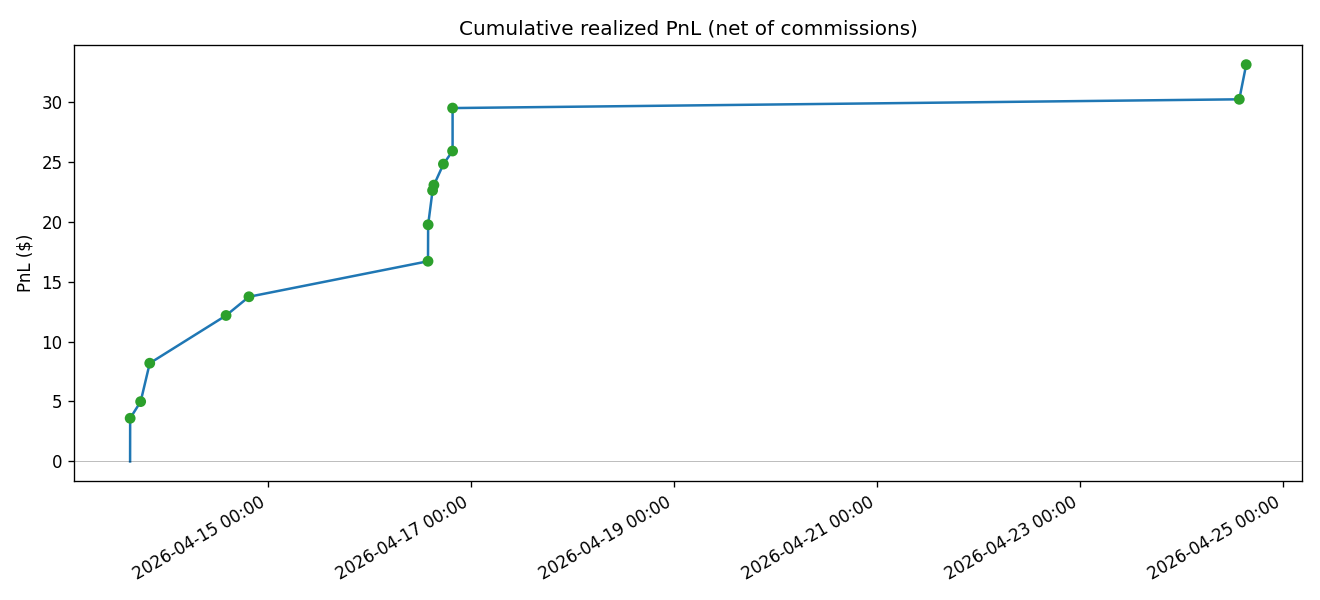
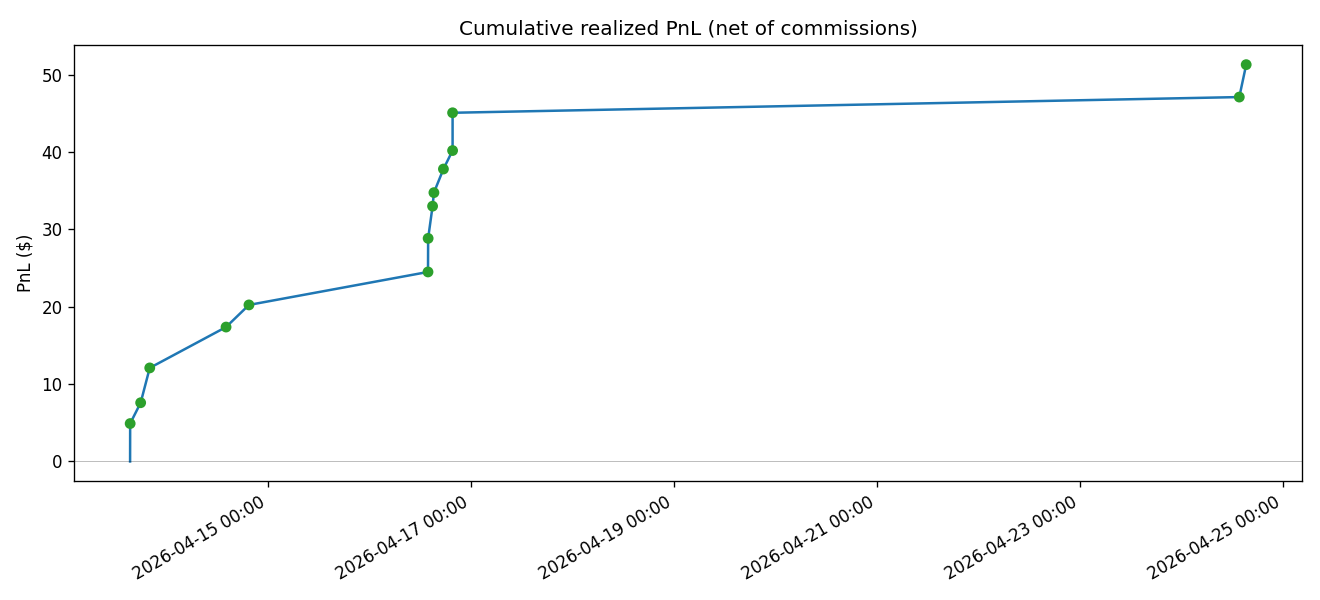
feat(costs): IBKR Pro Tiered defaults + commission_min_per_order knob
Adds a per-order commission floor to the cost model so the engine
can accurately model IBKR Pro Tiered ($0.0035/share, $0.35 min)
vs Fixed ($0.005/share, $1.00 min). Without the floor, small-share
orders looked cheaper than they actually are.

AppConfig:
 - New double commission_min_per_order = 1.0 (Fixed default preserves
   prior behaviour for any config that doesn't set it).
 - INI key: commission_min_per_order.

InstitutionalTransactionCostModel:
 - New 4-arg constructor (commission, commissionMin, spread, impact).
 - estimateCost now applies max(per_share * qty, min) per leg.
 - 3-arg constructor preserved (sets min=0, so old call sites are
   numerically identical).

Configs:
 - Both example configs default to Tiered (0.0035 / 0.35).
 - Hetzner config.ini updated to match.

Tests:
 - Three new TestCoreModels cases covering Tiered-floor-dominates,
   per-share-dominates, and 3-arg-no-floor regression.

plot_run.py:
 - Defaults now match the C++ defaults (0.0035 / 0.35).
 - Reads commission_min_per_order with fallback to legacy min_per_order.

Run #3 re-scored:
 - Realized PnL net: $33.08 -> $51.28 (same 14 trades, less
   commission drag).
 - Sharpe annualised: 18.26 -> 28.30.
 - Avg win: $2.36 -> $3.66.

diff --git a/include/execution/InstitutionalTransactionCostModel.h b/include/execution/InstitutionalTransactionCostModel.h
@@ -1,4 +1,5 @@
 #pragma once
+#include <algorithm>
 #include <cmath>
 #include "execution/ITransactionCostModel.h"
 
@@ -6,13 +7,26 @@ namespace hft {
 
 class InstitutionalTransactionCostModel : public ITransactionCostModel {
   double commissionPerShare_;
+  double commissionMinPerOrder_;
   double halfSpread_;
   double impactCoefficient_;
 
  public:
+  // 3-arg constructor preserved for back-compat with existing callers
+  // (defaults commissionMinPerOrder_ to 0, i.e. pure per-share with no floor).
   InstitutionalTransactionCostModel(double commission, double spread,
                                     double impact)
       : commissionPerShare_(commission),
+        commissionMinPerOrder_(0.0),
+        halfSpread_(spread),
+        impactCoefficient_(impact) {}
+
+  // 4-arg constructor: commission per-share + per-order floor in dollars.
+  // IBKR Pro Fixed: (0.005, 1.00). IBKR Pro Tiered: (0.0035, 0.35).
+  InstitutionalTransactionCostModel(double commission, double commissionMin,
+                                    double spread, double impact)
+      : commissionPerShare_(commission),
+        commissionMinPerOrder_(commissionMin),
         halfSpread_(spread),
         impactCoefficient_(impact) {}
 
@@ -23,7 +37,14 @@ class InstitutionalTransactionCostModel : public ITransactionCostModel {
     if (tradeSize == 0.0)
       return 0.0;
 
-    const double commissionCost = tradeSize * commissionPerShare_;
+    // Per-leg commission: max(per_share * qty, min_per_order). Floor is
+    // skipped when min == 0 to preserve the 3-arg-constructor behaviour
+    // (legacy callers that don't model the per-order minimum get exactly
+    // the same numbers as before).
+    double commissionCost = tradeSize * commissionPerShare_;
+    if (commissionMinPerOrder_ > 0.0) {
+      commissionCost = std::max(commissionCost, commissionMinPerOrder_);
+    }
     const double spreadCost = tradeSize * price * halfSpread_;
     const double participationRate = tradeSize / dailyVolume;
     const double impactCost = impactCoefficient_ * price * tradeSize *

diff --git a/tests/unit/TestCoreModels.cpp b/tests/unit/TestCoreModels.cpp
@@ -25,6 +25,39 @@ HFT_TEST(test_transaction_cost_nonnegative) {
   hft::test::require(c >= 0.0, "cost must be non-negative");
 }
 
+HFT_TEST(test_transaction_cost_min_per_order_floor_applied_for_small_qty) {
+  // IBKR Pro Tiered: $0.0035/share, $0.35 min per order.
+  // For 10 shares: per-share = 10 * 0.0035 = $0.035; min kicks in at $0.35.
+  InstitutionalTransactionCostModel m(0.0035, 0.35, 0.0, 0.0);
+  const double c = m.estimateCost(0, 10, 50.0, 1'000'000);
+  hft::test::require(c >= 0.35 - 1e-9,
+                     "Tiered floor should dominate for small qty");
+  hft::test::require(c <= 0.35 + 1e-9,
+                     "Tiered floor should equal exactly the min when "
+                     "per-share is well below it");
+}
+
+HFT_TEST(test_transaction_cost_per_share_dominates_for_large_qty) {
+  // 200 shares: per-share = 200 * 0.0035 = $0.70 > $0.35 floor.
+  InstitutionalTransactionCostModel m(0.0035, 0.35, 0.0, 0.0);
+  const double c = m.estimateCost(0, 200, 50.0, 1'000'000);
+  hft::test::require(c >= 0.70 - 1e-9,
+                     "Per-share should dominate when qty exceeds the floor");
+  hft::test::require(c <= 0.70 + 1e-9,
+                     "Per-share should equal exactly tradeSize*rate when "
+                     "above the floor");
+}
+
+HFT_TEST(test_transaction_cost_3arg_constructor_unchanged_no_floor) {
+  // Legacy 3-arg constructor: no per-order floor (commissionMin = 0).
+  // For 10 shares at $0.005/share = $0.05 (would have been $1.00 floored
+  // if floor was applied). Asserts back-compat.
+  InstitutionalTransactionCostModel m(0.005, 0.0, 0.0);
+  const double c = m.estimateCost(0, 10, 50.0, 1'000'000);
+  hft::test::require(c >= 0.05 - 1e-9 && c <= 0.05 + 1e-9,
+                     "3-arg constructor must NOT apply a min floor");
+}
+
 HFT_TEST(test_slippage_moves_price_for_buy) {
   MarketImpactSlippageModel m(0.0005, 0.1);
   const double px = m.adjustExecutionPrice(100.0, true, 0.01);

diff --git a/scripts/plot_run.py b/scripts/plot_run.py
@@ -534,8 +534,14 @@ def main(argv: List[str]) -> int:
     cfg = read_config(run_dir)
 
     target_profit_pct = float(cfg.get("target_profit_pct", 0.008))
-    commission_per_share = float(cfg.get("commission_per_share", 0.005))
-    min_per_order = float(cfg.get("min_per_order", 1.0))
+    # IBKR Pro Tiered defaults (matches the C++ AppConfig defaults from
+    # 2026-05-21). The config key the engine actually reads is
+    # `commission_min_per_order`; we accept the older `min_per_order` too
+    # as a fallback so any pre-existing manifests still load cleanly.
+    commission_per_share = float(cfg.get("commission_per_share", 0.0035))
+    min_per_order = float(
+        cfg.get("commission_min_per_order", cfg.get("min_per_order", 0.35))
+    )
     account_budget = float(cfg.get("account_budget", 1500.0))
 
     trips = derive_round_trips(orders, commission_per_share, min_per_order)

diff --git a/src/lib/LiveExecutionEngine.cpp b/src/lib/LiveExecutionEngine.cpp
@@ -540,9 +540,9 @@ double LiveExecutionEngine::estimate_round_trip_cost_per_share(
   if (qty <= 0.0)
     return 0.0;
 
-  InstitutionalTransactionCostModel costs(cfg_.app.commission_per_share,
-                                          cfg_.app.half_spread_cost,
-                                          cfg_.app.impact_coefficient);
+  InstitutionalTransactionCostModel costs(
+      cfg_.app.commission_per_share, cfg_.app.commission_min_per_order,
+      cfg_.app.half_spread_cost, cfg_.app.impact_coefficient);
   const double daily_volume = std::max(cfg_.app.assumed_daily_volume, qty);
   const double buy_cost =
       costs.estimateCost(0.0, qty, entry_price, daily_volume);

diff --git a/include/config/AppConfig.hpp b/include/config/AppConfig.hpp
@@ -155,6 +155,11 @@ struct AppConfig {
   double target_profit_pct = 0.008;
   double min_sell_execution_score = 0.0;
   double commission_per_share = 0.005;
+  // Per-order commission floor in dollars. IBKR Pro Fixed = $1.00; IBKR Pro
+  // Tiered = $0.35. Default 1.0 preserves prior Fixed behaviour for
+  // configs that don't explicitly set this. The cost model applies
+  // max(commission_per_share * qty, commission_min_per_order) per leg.
+  double commission_min_per_order = 1.0;
   double half_spread_cost = 0.0005;
   double impact_coefficient = 0.1;
   double assumed_daily_volume = 1'000'000.0;

diff --git a/src/lib/AppConfig.cpp b/src/lib/AppConfig.cpp
@@ -136,6 +136,8 @@ AppConfig AppConfig::load_from_file(const std::string& path) {
         cfg.min_sell_execution_score = std::stod(val);
       } else if (key == "commission_per_share") {
         cfg.commission_per_share = std::stod(val);
+      } else if (key == "commission_min_per_order") {
+        cfg.commission_min_per_order = std::stod(val);
       } else if (key == "half_spread_cost") {
         cfg.half_spread_cost = std::stod(val);
       } else if (key == "impact_coefficient") {

diff --git a/reports/runs/2026-05-21T0344_cpp_backtest_10day_xwire_fix/metrics.md b/reports/runs/2026-05-21T0344_cpp_backtest_10day_xwire_fix/metrics.md
@@ -9,16 +9,16 @@
 |---|---|
 | n_round_trips_closed | 14 |
 | n_positions_open_at_end | 2 |
-| realized_pnl_net | 33.08 |
+| realized_pnl_net | 51.28 |
 | unrealized_pnl_mark_to_market | 0.0 |
 | win_rate | 1.0 |
-| avg_win | 2.3629 |
+| avg_win | 3.6629 |
 | avg_loss | 0.0 |
-| gross_profit | 33.08 |
+| gross_profit | 51.28 |
 | gross_loss | 0.0 |
 | profit_factor | None |
 | max_drawdown_dollars | 0.0 |
-| sharpe_ratio_annualized | 18.2582 |
+| sharpe_ratio_annualized | 28.3035 |
 | sortino_ratio_annualized | 0.0 |
 | calmar_ratio | 0.0 |
 | avg_holding_minutes | 1310.79 |
@@ -27,20 +27,20 @@
 
 | # | Symbol | Entry | Exit | Qty | Net PnL ($) | Held (market min) |
 |---|---|---|---|---|---|---|
-| 1 | HPE | 24.5000 | 24.7800 | 20 | +3.6000 | 109.0 |
-| 2 | WDC | 346.1100 | 349.5000 | 1 | +1.3900 | 137.0 |
-| 3 | HPE | 24.4900 | 24.7500 | 20 | +3.2000 | 87.0 |
-| 4 | HPQ | 18.6600 | 18.8900 | 26 | +3.9800 | 28.0 |
-| 5 | DELL | 183.2400 | 185.0200 | 2 | +1.5600 | 318.0 |
-| 6 | AMKR | 60.4800 | 61.1000 | 8 | +2.9600 | 1447.0 |
-| 7 | CSCO | 82.1200 | 82.9600 | 6 | +3.0400 | 4338.0 |
-| 8 | ARM | 157.2100 | 158.8300 | 3 | +2.8600 | 13.0 |
-| 9 | LRCX | 263.4100 | 265.8600 | 1 | +0.4500 | 33.0 |
-| 10 | WDC | 355.7400 | 359.4900 | 1 | +1.7500 | 67.0 |
-| 11 | CEG | 295.8200 | 298.9100 | 1 | +1.0900 | 125.0 |
-| 12 | VST | 162.9700 | 164.8300 | 3 | +3.5800 | 138.0 |
-| 13 | CEG | 291.5600 | 294.2900 | 1 | +0.7300 | 5708.0 |
-| 14 | VST | 161.8400 | 163.4700 | 3 | +2.8900 | 5803.0 |
+| 1 | HPE | 24.5000 | 24.7800 | 20 | +4.9000 | 109.0 |
+| 2 | WDC | 346.1100 | 349.5000 | 1 | +2.6900 | 137.0 |
+| 3 | HPE | 24.4900 | 24.7500 | 20 | +4.5000 | 87.0 |
+| 4 | HPQ | 18.6600 | 18.8900 | 26 | +5.2800 | 28.0 |
+| 5 | DELL | 183.2400 | 185.0200 | 2 | +2.8600 | 318.0 |
+| 6 | AMKR | 60.4800 | 61.1000 | 8 | +4.2600 | 1447.0 |
+| 7 | CSCO | 82.1200 | 82.9600 | 6 | +4.3400 | 4338.0 |
+| 8 | ARM | 157.2100 | 158.8300 | 3 | +4.1600 | 13.0 |
+| 9 | LRCX | 263.4100 | 265.8600 | 1 | +1.7500 | 33.0 |
+| 10 | WDC | 355.7400 | 359.4900 | 1 | +3.0500 | 67.0 |
+| 11 | CEG | 295.8200 | 298.9100 | 1 | +2.3900 | 125.0 |
+| 12 | VST | 162.9700 | 164.8300 | 3 | +4.8800 | 138.0 |
+| 13 | CEG | 291.5600 | 294.2900 | 1 | +2.0300 | 5708.0 |
+| 14 | VST | 161.8400 | 163.4700 | 3 | +4.1900 | 5803.0 |
 
 ## Open positions at end
 
